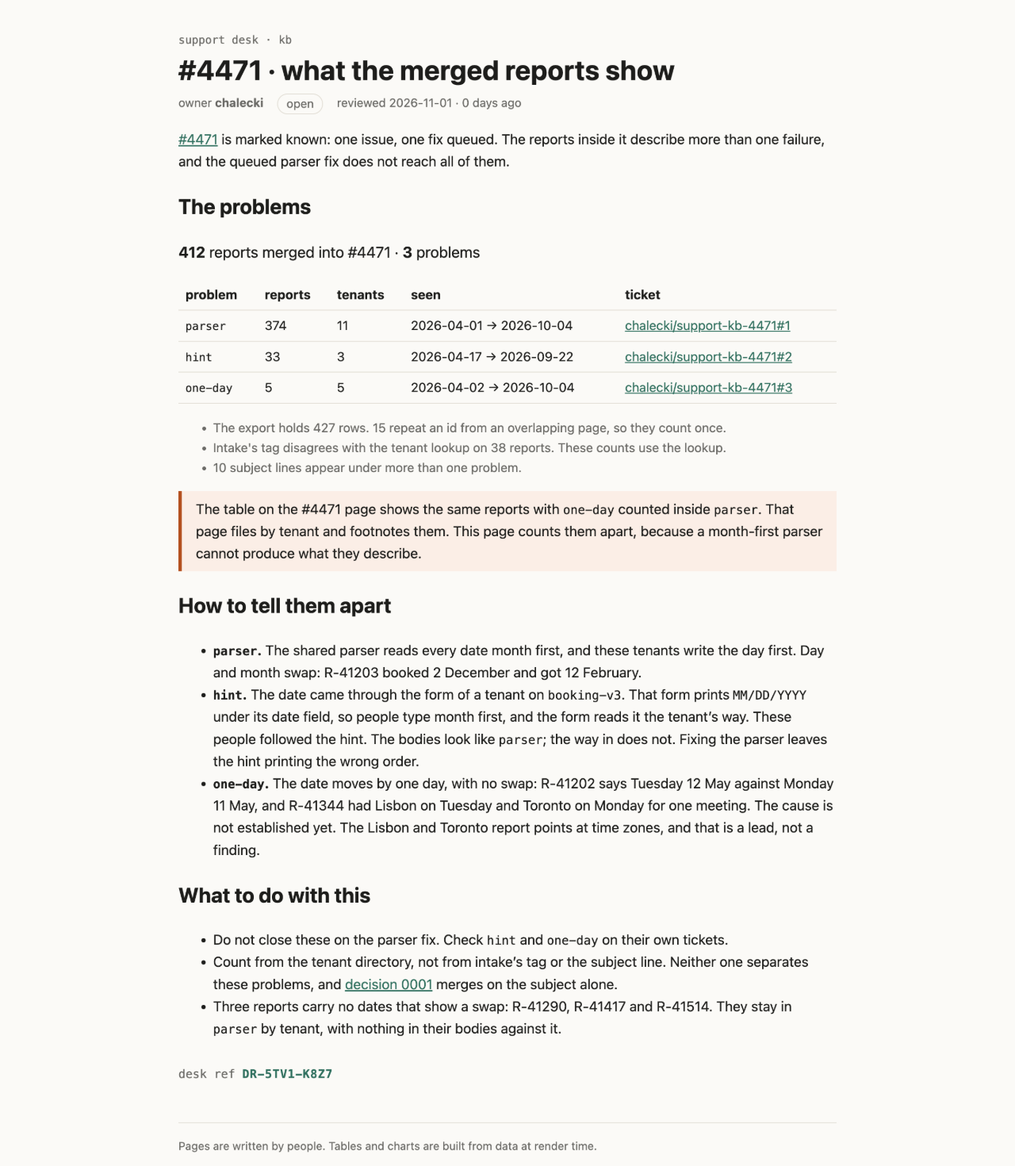
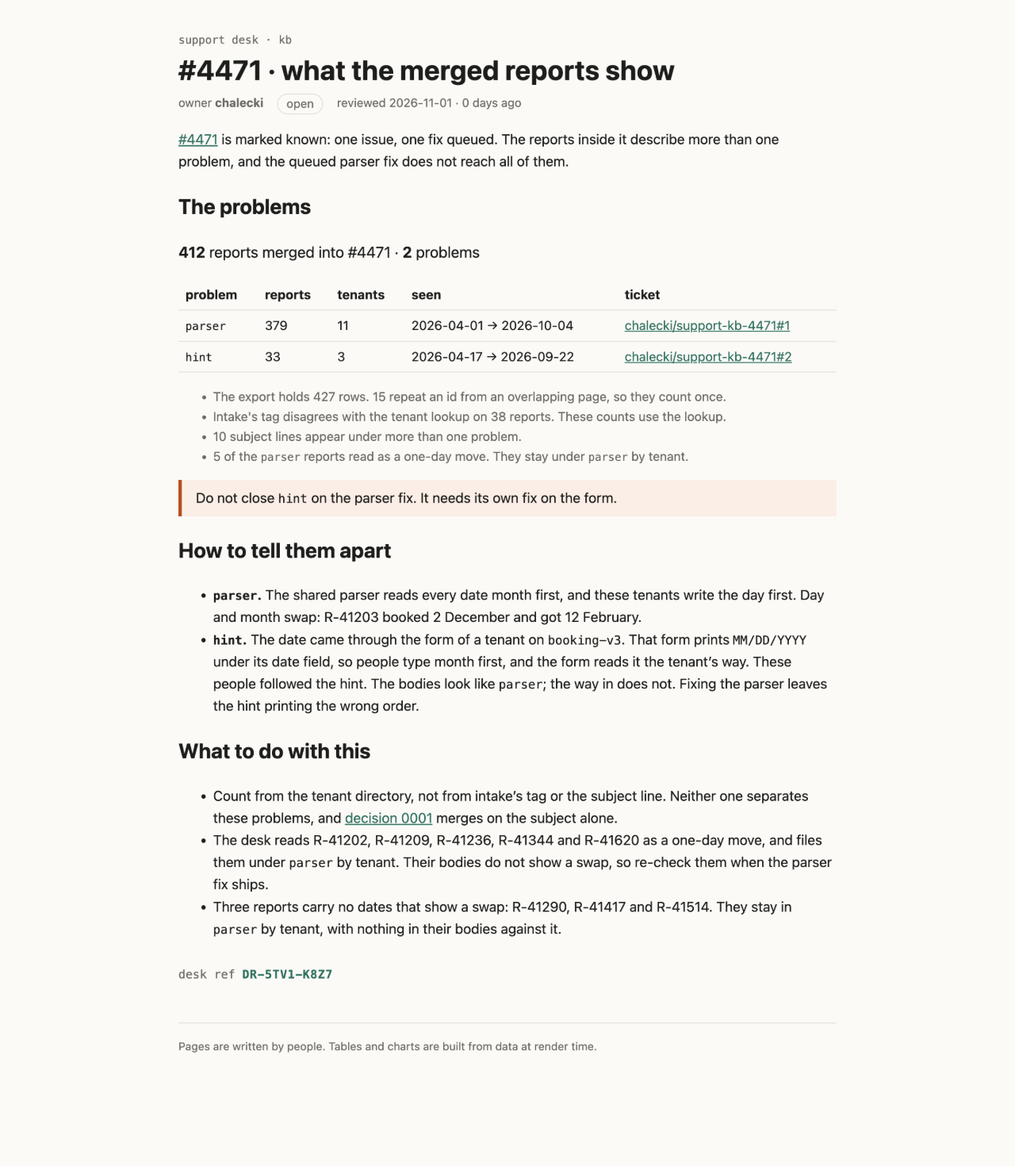
Count the one-day reports under parser: two problems, not three

Changed region(s): [[0.1562, 0.2449, 0.8125, 0.949], [0.1875, 0.9796, 0.5938, 1.0], [0.1875, 0.1224, 0.5625, 0.1531]]

diff --git a/rendered/kb/incidents/4471/problems.html b/rendered/kb/incidents/4471/problems.html
@@ -9,11 +9,11 @@
 		<link href="../../../_app/immutable/chunks/CptVIHXj.js" rel="modulepreload">
 		<link href="../../../_app/immutable/chunks/CHfFqfNT.js" rel="modulepreload">
 		<link href="../../../_app/immutable/chunks/DQG8lHS1.js" rel="modulepreload">
-		<link href="../../../_app/immutable/entry/app.Dvk5GVQ2.js" rel="modulepreload">
+		<link href="../../../_app/immutable/entry/app.BJvDcaJe.js" rel="modulepreload">
 		<link href="../../../_app/immutable/nodes/0.Izv2btRW.js" rel="modulepreload">
 		<link href="../../../_app/immutable/chunks/DK3Fl9T5.js" rel="modulepreload">
-		<link href="../../../_app/immutable/nodes/5.DJePRn56.js" rel="modulepreload">
-		<link href="../../../_app/immutable/chunks/l91peE1a.js" rel="modulepreload">
+		<link href="../../../_app/immutable/nodes/5.CDfSAvXp.js" rel="modulepreload">
+		<link href="../../../_app/immutable/chunks/BiRMwpH6.js" rel="modulepreload">
 		<link href="../../../_app/immutable/chunks/DkoUumqI.js" rel="modulepreload">
 		<link href="../../../_app/immutable/chunks/CVBzP17p.js" rel="modulepreload">
 		<link href="../../../_app/immutable/chunks/DcZ9TEUN.js" rel="modulepreload">
@@ -24,28 +24,25 @@
   </head>
   <body>
     <div><!--[--><!--[--><!--[0--><!--[--><!--[--><!--[-1--><!--[--><div class="kb svelte-e2jw2j"><header><a class="crumb svelte-e2jw2j" href="/kb">support desk · kb</a> <h1 class="svelte-e2jw2j">#4471 · what the merged reports show</h1> <p class="meta svelte-e2jw2j"><span>owner <b>chalecki</b></span> <span class="status open svelte-e2jw2j">open</span> <span class="svelte-e2jw2j">reviewed 2026-11-01 · 0 days ago</span></p></header> <!--[-1--><!--]--> <main><p><a href="/kb/incidents/4471">#4471</a> is marked known: one issue, one fix queued. The reports inside it
-describe more than one failure, and the queued parser fix does not reach all of them.</p> <h2>The problems</h2> <p class="sum svelte-1op6c6"><strong>412</strong> reports merged into #4471 · <strong>3</strong> problems</p> <table><thead><tr><th>problem</th><th>reports</th><th>tenants</th><th>seen</th><th>ticket</th></tr></thead><tbody><!--[--><tr><td><code>parser</code></td><td>374</td><td>11</td><td>2026-04-01 → 2026-10-04</td><td><!--[0--><a href="https://github.com/chalecki/support-kb-4471/issues/1">chalecki/support-kb-4471#1</a><!--]--></td></tr><tr><td><code>hint</code></td><td>33</td><td>3</td><td>2026-04-17 → 2026-09-22</td><td><!--[0--><a href="https://github.com/chalecki/support-kb-4471/issues/2">chalecki/support-kb-4471#2</a><!--]--></td></tr><tr><td><code>one-day</code></td><td>5</td><td>5</td><td>2026-04-02 → 2026-10-04</td><td><!--[0--><a href="https://github.com/chalecki/support-kb-4471/issues/3">chalecki/support-kb-4471#3</a><!--]--></td></tr><!--]--></tbody></table> <ul class="checks svelte-1op6c6"><li>The export holds 427 rows. 15 repeat an id from an overlapping page, so they count once.</li> <li>Intake's tag disagrees with the tenant lookup on 38 reports. These counts use the lookup.</li> <li>10 subject lines appear under more than one problem.</li></ul><!----> <aside class="warn svelte-17bri61"><!---->The table on the #4471 page shows the same reports with <code>one-day</code> counted inside <code>parser</code>. That page files by tenant and footnotes them. This page counts them apart,
-because a month-first parser cannot produce what they describe.<!----></aside><!----> <h2>How to tell them apart</h2> <ul><li><strong><code>parser</code>.</strong> The shared parser reads every date month first, and these tenants write the day
+describe more than one problem, and the queued parser fix does not reach all of them.</p> <h2>The problems</h2> <p class="sum svelte-1op6c6"><strong>412</strong> reports merged into #4471 · <strong>2</strong> problems</p> <table><thead><tr><th>problem</th><th>reports</th><th>tenants</th><th>seen</th><th>ticket</th></tr></thead><tbody><!--[--><tr><td><code>parser</code></td><td>379</td><td>11</td><td>2026-04-01 → 2026-10-04</td><td><!--[0--><a href="https://github.com/chalecki/support-kb-4471/issues/1">chalecki/support-kb-4471#1</a><!--]--></td></tr><tr><td><code>hint</code></td><td>33</td><td>3</td><td>2026-04-17 → 2026-09-22</td><td><!--[0--><a href="https://github.com/chalecki/support-kb-4471/issues/2">chalecki/support-kb-4471#2</a><!--]--></td></tr><!--]--></tbody></table> <ul class="checks svelte-1op6c6"><li>The export holds 427 rows. 15 repeat an id from an overlapping page, so they count once.</li> <li>Intake's tag disagrees with the tenant lookup on 38 reports. These counts use the lookup.</li> <li>10 subject lines appear under more than one problem.</li> <!--[--><!--[0--><li>5 of the <code>parser</code> reports read as a one-day move. They stay under <code>parser</code> by tenant.</li><!--]--><!--[-1--><!--]--><!--]--></ul><!----> <aside class="warn svelte-17bri61"><!---->Do not close <code>hint</code> on the parser fix. It needs its own fix on the form.<!----></aside><!----> <h2>How to tell them apart</h2> <ul><li><strong><code>parser</code>.</strong> The shared parser reads every date month first, and these tenants write the day
 first. Day and month swap: R-41203 booked 2 December and got 12 February.</li> <li><strong><code>hint</code>.</strong> The date came through the form of a tenant on <code>booking-v3</code>. That form prints <code>MM/DD/YYYY</code> under its date field, so people type month first, and the form reads it the
 tenant’s way. These people followed the hint. The bodies look like <code>parser</code>; the way in does not.
-Fixing the parser leaves the hint printing the wrong order.</li> <li><strong><code>one-day</code>.</strong> The date moves by one day, with no swap: R-41202 says Tuesday 12 May against
-Monday 11 May, and R-41344 had Lisbon on Tuesday and Toronto on Monday for one meeting. The cause
-is not established yet. The Lisbon and Toronto report points at time zones, and that is a lead,
-not a finding.</li></ul> <h2>What to do with this</h2> <ul><li>Do not close these on the parser fix. Check <code>hint</code> and <code>one-day</code> on their own tickets.</li> <li>Count from the tenant directory, not from intake’s tag or the subject line. Neither one separates
-these problems, and <a href="/kb/decisions/0001-dedupe-by-subject">decision 0001</a> merges on the subject alone.</li> <li>Three reports carry no dates that show a swap: R-41290, R-41417 and R-41514. They stay in <code>parser</code> by tenant, with nothing in their bodies against it.</li></ul> <!--[0--><p class="stamp svelte-1280m42">desk ref <b class="svelte-1280m42">DR-5TV1-K8Z7</b></p><!--]--><!----><!----></main> <footer class="svelte-e2jw2j">Pages are written by people. Tables and charts are built from data at render time.</footer></div><!--]--><!--]--><!--]--><!----><!--]--><!--]--><!--]--><!----> <!--[-1--><!--]--><!--]-->
+Fixing the parser leaves the hint printing the wrong order.</li></ul> <h2>What to do with this</h2> <ul><li>Count from the tenant directory, not from intake’s tag or the subject line. Neither one separates
+these problems, and <a href="/kb/decisions/0001-dedupe-by-subject">decision 0001</a> merges on the subject alone.</li> <li>The desk reads R-41202, R-41209, R-41236, R-41344 and R-41620 as a one-day move, and files them
+under <code>parser</code> by tenant. Their bodies do not show a swap, so re-check them when the parser fix ships.</li> <li>Three reports carry no dates that show a swap: R-41290, R-41417 and R-41514. They stay in <code>parser</code> by tenant, with nothing in their bodies against it.</li></ul> <!--[0--><p class="stamp svelte-1280m42">desk ref <b class="svelte-1280m42">DR-5TV1-K8Z7</b></p><!--]--><!----><!----></main> <footer class="svelte-e2jw2j">Pages are written by people. Tables and charts are built from data at render time.</footer></div><!--]--><!--]--><!--]--><!----><!--]--><!--]--><!--]--><!----> <!--[-1--><!--]--><!--]-->
 			
 			<script>
 				{
-					__sveltekit_7pxg2d = {
+					__sveltekit_1y1p9j0 = {
 						base: new URL("../../..", location).pathname.slice(0, -1),
-						version: "1793546077218"
+						version: "1793546150622"
 					};
 
 					const element = document.currentScript.parentElement;
 
 					import("../../../_app/immutable/entry/start.D1HzdfF7.js").then(async (kit) => {
-						kit.init(__sveltekit_7pxg2d);
-						const app = await import("../../../_app/immutable/entry/app.Dvk5GVQ2.js");
+						kit.init(__sveltekit_1y1p9j0);
+						const app = await import("../../../_app/immutable/entry/app.BJvDcaJe.js");
 						kit.start(app, element, {
 							node_ids: [0, 5],
 							data: [null,null],

diff --git a/rendered/_app/immutable/chunks/BiRMwpH6.js b/rendered/_app/immutable/chunks/BiRMwpH6.js
@@ -1,0 +1,7 @@
+import{t as e}from"./DK3Fl9T5.js";import{E as t,F as n,H as r,I as i,K as a,L as o,N as s,O as c,R as l,S as u,T as d,U as f,W as p,_ as m,c as h,h as g,k as _,q as v,r as y,t as b,w as x}from"./CHfFqfNT.js";import{t as S}from"./DkoUumqI.js";import{n as C,t as w}from"./CVBzP17p.js";import{a as T,l as E,o as D,r as O,t as k}from"./DcZ9TEUN.js";function A(e,t){return E(e).filter(e=>e.mergedInto===t)}function j(e){return e.reduce((e,t)=>e+t.reports.filter(e=>e.meta.intakeTag!==t.cause).length,0)}function M(e){let t=new Map;for(let n of e)for(let e of n.reports)t.set(e.subject,(t.get(e.subject)??new Set).add(n.cause));return[...t.values()].filter(e=>e.size>1).length}var N=t(`<a> </a>`),P=t(`<tr><td><code> </code></td><td> </td><td> </td><td> </td><td><!></td></tr>`),F=t(`<li> <code> </code> reports read as a one-day move. They stay under <code> </code> by tenant.</li>`),I=t(`<p class="sum svelte-1op6c6"><strong> </strong> <strong> </strong> </p> <table><thead><tr><th>problem</th><th>reports</th><th>tenants</th><th>seen</th><th>ticket</th></tr></thead><tbody></tbody></table> <ul class="checks svelte-1op6c6"><li> </li> <li> </li> <li> </li> <!></ul>`,1);function L(e,t){p(t,!0);let y=r(()=>C),b=r(()=>A(_(y),t.ticket)),S=r(()=>T(_(b),O)),E=e=>t.tickets[e];var k=I(),L=i(k),R=n(L),z=o(R,!0),B=l(R),V=l(B),H=o(V,!0),U=l(V);v(L);var W=l(L,2),G=l(n(W));g(G,21,()=>_(S),e=>e.cause,(e,i)=>{var a=P(),d=n(a),f=n(d),p=o(f,!0);v(d);var g=l(d),y=o(g,!0),b=l(g),S=o(b,!0),C=l(b),w=o(C),T=l(C),D=n(T),O=e=>{var n=N(),r=o(n);s((e,i)=>{h(n,`href`,`https://github.com/${t.repo??``}/issues/${e??``}`),u(r,`${t.repo??``}#${i??``}`)},[()=>E(_(i).cause),()=>E(_(i).cause)]),x(e,n)},k=r(()=>E(_(i).cause)),A=e=>{var t=c(`none`);x(e,t)};m(D,e=>{_(k)?e(O):e(A,-1)}),v(T),v(a),s(()=>{u(p,_(i).cause),u(y,_(i).reports.length),u(S,_(i).tenants),u(w,`${_(i).firstSeen??``} → ${_(i).lastSeen??``}`)}),x(e,a)}),v(G),v(W);var K=l(W,2),q=n(K),J=o(q),Y=l(q,2),ee=o(Y),X=l(Y,2),Z=o(X),Q=l(X,2);g(Q,17,()=>_(S),e=>e.cause,(e,t)=>{var c=d(),f=i(c),p=e=>{var r=F(),i=n(r),c=l(i),d=o(c,!0),f=l(c,2),p=o(f,!0);a(),v(r),s(e=>{u(i,`${e??``} of the `),u(d,_(t).cause),u(p,_(t).cause)},[()=>D(_(t),w.oneDayMove)]),x(e,r)},h=r(()=>D(_(t),w.oneDayMove));m(f,e=>{_(h)&&e(p)}),x(e,c)}),v(K),s((e,n)=>{u(z,_(b).length),u(B,` reports merged into #${t.ticket??``} · `),u(H,_(S).length),u(U,` ${_(S).length===1?`problem`:`problems`}`),u(J,`The export holds ${_(y).length??``} rows. ${_(y).length-_(b).length} repeat an id from an overlapping page, so they count once.`),u(ee,`Intake's tag disagrees with the tenant lookup on ${e??``} reports. These counts use the lookup.`),u(Z,`${n??``} subject lines appear under more than one problem.`)},[()=>j(_(S)),()=>M(_(S))]),x(e,k),f()}var R=`0123456789ABCDEFGHJKMNPQRSTVWXYZ`;function z(e,t){let n=t>>>0;for(let t=0;t<e.length;t++)n^=e.charCodeAt(t),n=Math.imul(n,16777619)>>>0;return n}function B(e){let t=e.trim(),n=z(t,2166136261),r=z(t,2654435769),i=BigInt(n)<<8n|BigInt(r&255),a=``;for(let e=0;e<8;e++)a=R[Number(i&31n)]+a,i>>=5n;return`DR-${a.slice(0,4)}-${a.slice(4)}`}var V=t(`<p class="stamp svelte-1280m42">desk ref <b class="svelte-1280m42"> </b></p>`),H=t(`<p class="stamp missing svelte-1280m42">no desk ref: this page isn't signed (no <code>signature</code> in its frontmatter)</p>`);function U(e,t){p(t,!0);let a=r(()=>t.signature?B(t.signature):null);var c=d(),h=i(c),g=e=>{var t=V(),r=l(n(t)),i=o(r,!0);v(t),s(()=>u(i,_(a))),x(e,t)},y=e=>{var t=H();x(e,t)};m(h,e=>{_(a)?e(g):e(y,-1)}),x(e,c),f()}var W=e({default:()=>$,metadata:()=>G}),G={layout:`runbook`,title:`#4471 · what the merged reports show`,owner:`chalecki`,status:`open`,reviewed:`2026-11-01T00:00:00.000Z`,signature:`chalecki`},{layout:K,title:q,owner:J,status:Y,reviewed:ee,signature:X}=G,Z=t(`Do not close <code>hint</code> on the parser fix. It needs its own fix on the form.`,1),Q=t(`<p><a href="/kb/incidents/4471">#4471</a> is marked known: one issue, one fix queued. The reports inside it
+describe more than one problem, and the queued parser fix does not reach all of them.</p> <h2>The problems</h2> <!> <!> <h2>How to tell them apart</h2> <ul><li><strong><code>parser</code>.</strong> The shared parser reads every date month first, and these tenants write the day
+first. Day and month swap: R-41203 booked 2 December and got 12 February.</li> <li><strong><code>hint</code>.</strong> The date came through the form of a tenant on <code>booking-v3</code>. That form prints <code>MM/DD/YYYY</code> under its date field, so people type month first, and the form reads it the
+tenant’s way. These people followed the hint. The bodies look like <code>parser</code>; the way in does not.
+Fixing the parser leaves the hint printing the wrong order.</li></ul> <h2>What to do with this</h2> <ul><li>Count from the tenant directory, not from intake’s tag or the subject line. Neither one separates
+these problems, and <a href="/kb/decisions/0001-dedupe-by-subject">decision 0001</a> merges on the subject alone.</li> <li>The desk reads R-41202, R-41209, R-41236, R-41344 and R-41620 as a one-day move, and files them
+under <code>parser</code> by tenant. Their bodies do not show a swap, so re-check them when the parser fix ships.</li> <li>Three reports carry no dates that show a swap: R-41290, R-41417 and R-41514. They stay in <code>parser</code> by tenant, with nothing in their bodies against it.</li></ul> <!>`,1);function $(e,t){let n=b(t,[`children`,`$$slots`,`$$events`,`$$legacy`]);S(e,y(()=>n,()=>G,{children:(e,t)=>{var n=Q(),r=l(i(n),4);L(r,{ticket:4471,repo:`chalecki/support-kb-4471`,tickets:{parser:1,hint:2}});var o=l(r,2);k(o,{kind:`warn`,children:(e,t)=>{a();var n=Z();a(2),x(e,n)},$$slots:{default:!0}}),U(l(o,10),{get signature(){return X}}),x(e,n)},$$slots:{default:!0}}))}export{$ as n,W as t};

diff --git a/src/lib/kb/ProblemTable.svelte b/src/lib/kb/ProblemTable.svelte
@@ -1,20 +1,20 @@
 <script lang="ts">
   import reports from '#lib/data/reports-4471.json';
   import notes from '#lib/data/desk-notes.json';
-  import type { Report } from '#lib/kb/causes';
+  import { groupByCause, readAs, type Cause, type Report } from '#lib/kb/causes';
   import { tenantOf } from '#lib/kb/locales';
-  import { groupByProblem, mergedInto, sharedSubjects, taggedWrong, type Problem } from '#lib/kb/problems';
+  import { mergedInto, sharedSubjects, taggedWrong } from '#lib/kb/problems';
 
-  let { ticket, repo, tickets }: { ticket: number; repo: string; tickets: Partial<Record<Problem, number>> } = $props();
+  let { ticket, repo, tickets }: { ticket: number; repo: string; tickets: Partial<Record<Cause, number>> } = $props();
 
   const raw = $derived(reports as Report[]);
   const merged = $derived(mergedInto(raw, ticket));
-  const groups = $derived(groupByProblem(merged, tenantOf, notes.oneDayMove));
-  const total = $derived(groups.reduce((n, g) => n + g.reports.length, 0));
+  const groups = $derived(groupByCause(merged, tenantOf));
+  const link = (cause: string) => tickets[cause as Cause];
 </script>
 
 <p class="sum">
-  <strong>{total}</strong> reports merged into #{ticket} ·
+  <strong>{merged.length}</strong> reports merged into #{ticket} ·
   <strong>{groups.length}</strong>
   {groups.length === 1 ? 'problem' : 'problems'}
 </p>
@@ -24,15 +24,15 @@
     <tr><th>problem</th><th>reports</th><th>tenants</th><th>seen</th><th>ticket</th></tr>
   </thead>
   <tbody>
-    {#each groups as g (g.problem)}
+    {#each groups as g (g.cause)}
       <tr>
-        <td><code>{g.problem}</code></td>
+        <td><code>{g.cause}</code></td>
         <td>{g.reports.length}</td>
         <td>{g.tenants}</td>
         <td>{g.firstSeen} → {g.lastSeen}</td>
         <td>
-          {#if tickets[g.problem]}
-            <a href="https://github.com/{repo}/issues/{tickets[g.problem]}">{repo}#{tickets[g.problem]}</a>
+          {#if link(g.cause)}
+            <a href="https://github.com/{repo}/issues/{link(g.cause)}">{repo}#{link(g.cause)}</a>
           {:else}
             none
           {/if}
@@ -46,6 +46,11 @@
   <li>The export holds {raw.length} rows. {raw.length - merged.length} repeat an id from an overlapping page, so they count once.</li>
   <li>Intake's tag disagrees with the tenant lookup on {taggedWrong(groups)} reports. These counts use the lookup.</li>
   <li>{sharedSubjects(groups)} subject lines appear under more than one problem.</li>
+  {#each groups as g (g.cause)}
+    {#if readAs(g, notes.oneDayMove)}
+      <li>{readAs(g, notes.oneDayMove)} of the <code>{g.cause}</code> reports read as a one-day move. They stay under <code>{g.cause}</code> by tenant.</li>
+    {/if}
+  {/each}
 </ul>
 
 <style>

diff --git a/src/lib/kb/problems.ts b/src/lib/kb/problems.ts
@@ -1,40 +1,20 @@
-// What the reports in a ticket say went wrong, on top of where causes.ts files them.
-// causeOf() looks only at tenant and channel, so a report whose body describes a different failure
-// still lands in `parser`. desk-notes.json names those reports: they get their own problem here.
-import { groupByCause, uniqueById, type CauseGroup, type Report, type Tenant } from '#lib/kb/causes';
-
-export type Problem = 'parser' | 'hint' | 'one-day' | 'unplaced';
-
-export type ProblemGroup = Omit<CauseGroup, 'cause'> & { problem: Problem };
+// Checks on the groups causes.ts makes for a ticket.
+import { uniqueById, type CauseGroup, type Report } from '#lib/kb/causes';
 
 export function mergedInto(reports: Report[], ticket: number): Report[] {
   return uniqueById(reports).filter((r) => r.mergedInto === ticket);
 }
 
-export function groupByProblem(
-  reports: Report[],
-  tenantOf: (r: Report) => Tenant | undefined,
-  oneDayMove: readonly string[],
-): ProblemGroup[] {
-  const moved = reports.filter((r) => oneDayMove.includes(r.id));
-  const rest = reports.filter((r) => !oneDayMove.includes(r.id));
-  const rows = groupByCause(rest, tenantOf).map(({ cause, ...g }) => ({ ...g, problem: cause as Problem }));
-  const [one] = groupByCause(moved, tenantOf);
-  return one ? [...rows, { ...one, problem: 'one-day' as const }] : rows;
+// Reports that sit in one cause while intake tagged them as another.
+export function taggedWrong(groups: CauseGroup[]): number {
+  return groups.reduce((n, g) => n + g.reports.filter((r) => r.meta.intakeTag !== g.cause).length, 0);
 }
 
-// Reports that sit in one problem while intake tagged them as another.
-export function taggedWrong(groups: ProblemGroup[]): number {
-  return groups
-    .filter((g) => g.problem !== 'one-day')
-    .reduce((n, g) => n + g.reports.filter((r) => r.meta.intakeTag !== g.problem).length, 0);
-}
-
-// Subject lines that appear in more than one problem: the rule in decision 0001 cannot split them.
-export function sharedSubjects(groups: ProblemGroup[]): number {
-  const seen = new Map<string, Set<Problem>>();
+// Subject lines that appear under more than one cause: the rule in decision 0001 cannot split them.
+export function sharedSubjects(groups: CauseGroup[]): number {
+  const seen = new Map<string, Set<CauseGroup['cause']>>();
   for (const g of groups) {
-    for (const r of g.reports) seen.set(r.subject, (seen.get(r.subject) ?? new Set()).add(g.problem));
+    for (const r of g.reports) seen.set(r.subject, (seen.get(r.subject) ?? new Set()).add(g.cause));
   }
   return [...seen.values()].filter((s) => s.size > 1).length;
 }

diff --git a/rendered/_app/immutable/nodes/2.DDEqsNXp.js b/rendered/_app/immutable/nodes/2.DDEqsNXp.js
@@ -1,0 +1,2 @@
+import{E as e,F as t,I as n,K as r,L as i,N as a,R as o,S as s,U as c,W as l,c as u,d,h as f,i as p,k as m,q as h,r as g,t as _,w as v}from"../chunks/CHfFqfNT.js";import{n as y,r as b,t as x}from"../chunks/DkoUumqI.js";import{t as S}from"../chunks/DCOWSXCS.js";import{t as C}from"../chunks/BHCznJ8a.js";import{t as w}from"../chunks/BiRMwpH6.js";import{t as T}from"../chunks/Ce0JHbCm.js";var E=e(`<tr><td><a> </a></td><td> </td><td> </td><td> </td></tr>`),D=e(`<table><thead><tr><th>page</th><th>owner</th><th>status</th><th>reviewed</th></tr></thead><tbody></tbody></table>`);function O(e,n){l(n,!1);let r=Object.entries(Object.assign({"/src/routes/kb/decisions/0001-dedupe-by-subject/+page.svx":S,"/src/routes/kb/incidents/4471/+page.svx":C,"/src/routes/kb/incidents/4471/problems/+page.svx":w,"/src/routes/kb/triage/dedupe/+page.svx":T})).map(([e,t])=>({href:e.replace(`/src/routes`,``).replace(`/+page.svx`,``),...t.metadata})).sort((e,t)=>e.href.localeCompare(t.href));p();var g=D(),_=o(t(g));f(_,5,()=>r,e=>e.href,(e,n)=>{var r=E(),c=t(r),l=t(c),f=i(l,!0);h(c);var p=o(c),g=i(p,!0),_=o(p),x=i(_,!0),S=o(_);let C;var w=i(S,!0);h(r),a((e,t)=>{u(l,`href`,m(n).href),s(f,m(n).title),s(g,m(n).owner),s(x,m(n).status),C=d(S,1,`svelte-tbc1ha`,null,C,{stale:e}),s(w,t)},[()=>y(m(n).reviewed)>180,()=>b(m(n).reviewed)]),v(e,r)}),h(_),h(g),v(e,g),c()}var k={layout:`runbook`,title:`Support knowledge base`,owner:`support desk`,status:`living`,reviewed:`2026-09-28T00:00:00.000Z`},{layout:A,title:j,owner:M,status:N,reviewed:P}=k,F=e(`<p>What the support desk knows, kept next to the code that knows it. One desk, every product: <code>sched-prod</code> (calendar invites for about 300k people) and the rest. When something breaks, the reports land here first.</p> <p>Start with <a href="/kb/triage/dedupe">triage</a> if you are new on the desk.</p> <h2>Pages</h2> <!> <h2>Writing a page</h2> <p>Keep the words here and the logic in <code>src/lib</code>. A number that can be computed should be
+computed by a component, not typed into a paragraph.</p>`,1);function I(e,t){let i=_(t,[`children`,`$$slots`,`$$events`,`$$legacy`]);x(e,g(()=>i,()=>k,{children:(e,t)=>{var i=F();O(o(n(i),6),{}),r(4),v(e,i)},$$slots:{default:!0}}))}export{I as component};

diff --git a/rendered/kb.html b/rendered/kb.html
@@ -9,16 +9,16 @@
 		<link href="./_app/immutable/chunks/CptVIHXj.js" rel="modulepreload">
 		<link href="./_app/immutable/chunks/CHfFqfNT.js" rel="modulepreload">
 		<link href="./_app/immutable/chunks/DQG8lHS1.js" rel="modulepreload">
-		<link href="./_app/immutable/entry/app.Dvk5GVQ2.js" rel="modulepreload">
+		<link href="./_app/immutable/entry/app.BJvDcaJe.js" rel="modulepreload">
 		<link href="./_app/immutable/nodes/0.Izv2btRW.js" rel="modulepreload">
 		<link href="./_app/immutable/chunks/DK3Fl9T5.js" rel="modulepreload">
-		<link href="./_app/immutable/nodes/2.Bttkxv3N.js" rel="modulepreload">
+		<link href="./_app/immutable/nodes/2.DDEqsNXp.js" rel="modulepreload">
 		<link href="./_app/immutable/chunks/DkoUumqI.js" rel="modulepreload">
 		<link href="./_app/immutable/chunks/DCOWSXCS.js" rel="modulepreload">
 		<link href="./_app/immutable/chunks/BHCznJ8a.js" rel="modulepreload">
 		<link href="./_app/immutable/chunks/CVBzP17p.js" rel="modulepreload">
 		<link href="./_app/immutable/chunks/DcZ9TEUN.js" rel="modulepreload">
-		<link href="./_app/immutable/chunks/l91peE1a.js" rel="modulepreload">
+		<link href="./_app/immutable/chunks/BiRMwpH6.js" rel="modulepreload">
 		<link href="./_app/immutable/chunks/Ce0JHbCm.js" rel="modulepreload">
 		<!--e2jw2j--><!----><title>Support knowledge base · support kb</title>
 		<link href="./_app/immutable/assets/runbook.COyw0cbZ.css" rel="stylesheet">
@@ -34,16 +34,16 @@ computed by a component, not typed into a paragraph.</p><!----></main> <footer c
 			
 			<script>
 				{
-					__sveltekit_7pxg2d = {
+					__sveltekit_1y1p9j0 = {
 						base: new URL(".", location).pathname.slice(0, -1),
-						version: "1793546077218"
+						version: "1793546150622"
 					};
 
 					const element = document.currentScript.parentElement;
 
 					import("./_app/immutable/entry/start.D1HzdfF7.js").then(async (kit) => {
-						kit.init(__sveltekit_7pxg2d);
-						const app = await import("./_app/immutable/entry/app.Dvk5GVQ2.js");
+						kit.init(__sveltekit_1y1p9j0);
+						const app = await import("./_app/immutable/entry/app.BJvDcaJe.js");
 						kit.start(app, element, {
 							node_ids: [0, 2],
 							data: [null,null],

diff --git a/rendered/_app/immutable/entry/app.BJvDcaJe.js b/rendered/_app/immutable/entry/app.BJvDcaJe.js
@@ -1,0 +1,2 @@
+const __vite__mapDeps=(i,m=__vite__mapDeps,d=(m.f||(m.f=["../nodes/0.Izv2btRW.js","../chunks/DK3Fl9T5.js","../chunks/CHfFqfNT.js","../nodes/1.xQrPtl8H.js","../chunks/DQG8lHS1.js","./payload.DSmR2FwN.js","../nodes/2.DDEqsNXp.js","../chunks/DkoUumqI.js","../assets/runbook.COyw0cbZ.css","../chunks/DCOWSXCS.js","../chunks/BHCznJ8a.js","../chunks/CVBzP17p.js","../chunks/DcZ9TEUN.js","../assets/Callout.AbLv9dM_.css","../assets/_page.D56XP2ro.css","../chunks/BiRMwpH6.js","../assets/_page.DFsi4BNB.css","../chunks/Ce0JHbCm.js","../assets/_page.DO6Yid7X.css","../assets/2.Bt0MwIZg.css","../nodes/3.utlB90Ku.js","../nodes/4.ot8lEXqF.js","../nodes/5.CDfSAvXp.js","../nodes/6.BZRQ87Zk.js"])))=>i.map(i=>d[i]);
+import{t as e}from"../chunks/CRzLMJPS.js";var t={},n=[()=>e(()=>import(`../nodes/0.Izv2btRW.js`),__vite__mapDeps([0,1,2]),import.meta.url),()=>e(()=>import(`../nodes/1.xQrPtl8H.js`),__vite__mapDeps([3,2,4,5]),import.meta.url),()=>e(()=>import(`../nodes/2.DDEqsNXp.js`),__vite__mapDeps([6,2,7,8,9,1,10,11,12,13,14,15,16,17,18,19]),import.meta.url),()=>e(()=>import(`../nodes/3.utlB90Ku.js`),__vite__mapDeps([20,9,1,2,7,8]),import.meta.url),()=>e(()=>import(`../nodes/4.ot8lEXqF.js`),__vite__mapDeps([21,10,1,2,7,8,11,12,13,14]),import.meta.url),()=>e(()=>import(`../nodes/5.CDfSAvXp.js`),__vite__mapDeps([22,15,1,2,7,8,11,12,13,16]),import.meta.url),()=>e(()=>import(`../nodes/6.BZRQ87Zk.js`),__vite__mapDeps([23,17,1,2,7,8,12,13,18]),import.meta.url)],r=[],i={"/kb":[2],"/kb/decisions/0001-dedupe-by-subject":[3],"/kb/incidents/4471":[4],"/kb/incidents/4471/problems":[5],"/kb/triage/dedupe":[6]},a={handleError:(({kind:e,error:t})=>{e===`unknown`&&console.error(t)}),reroute:(()=>{}),transport:{}},o=Object.fromEntries(Object.entries(a.transport).map(([e,t])=>[e,t.decode])),s=Object.fromEntries(Object.entries(a.transport).map(([e,t])=>[e,t.encode])),c=!1,l=(e,t)=>o[e](t),u=()=>e(()=>import(`../chunks/Bjy-W4x2.js`).then(e=>e.default),[],import.meta.url);export{l as decode,o as decoders,i as dictionary,s as encoders,u as get_error_template,c as hash,a as hooks,t as matchers,n as nodes,r as server_loads};

diff --git a/rendered/kb/decisions/0001-dedupe-by-subject.html b/rendered/kb/decisions/0001-dedupe-by-subject.html
@@ -9,7 +9,7 @@
 		<link href="../../_app/immutable/chunks/CptVIHXj.js" rel="modulepreload">
 		<link href="../../_app/immutable/chunks/CHfFqfNT.js" rel="modulepreload">
 		<link href="../../_app/immutable/chunks/DQG8lHS1.js" rel="modulepreload">
-		<link href="../../_app/immutable/entry/app.Dvk5GVQ2.js" rel="modulepreload">
+		<link href="../../_app/immutable/entry/app.BJvDcaJe.js" rel="modulepreload">
 		<link href="../../_app/immutable/nodes/0.Izv2btRW.js" rel="modulepreload">
 		<link href="../../_app/immutable/chunks/DK3Fl9T5.js" rel="modulepreload">
 		<link href="../../_app/immutable/nodes/3.utlB90Ku.js" rel="modulepreload">
@@ -26,16 +26,16 @@ engineering merges them later.</li></ul><!----></main> <footer class="svelte-e2j
 			
 			<script>
 				{
-					__sveltekit_7pxg2d = {
+					__sveltekit_1y1p9j0 = {
 						base: new URL("../..", location).pathname.slice(0, -1),
-						version: "1793546077218"
+						version: "1793546150622"
 					};
 
 					const element = document.currentScript.parentElement;
 
 					import("../../_app/immutable/entry/start.D1HzdfF7.js").then(async (kit) => {
-						kit.init(__sveltekit_7pxg2d);
-						const app = await import("../../_app/immutable/entry/app.Dvk5GVQ2.js");
+						kit.init(__sveltekit_1y1p9j0);
+						const app = await import("../../_app/immutable/entry/app.BJvDcaJe.js");
 						kit.start(app, element, {
 							node_ids: [0, 3],
 							data: [null,null],

diff --git a/rendered/kb/incidents/4471.html b/rendered/kb/incidents/4471.html
@@ -9,7 +9,7 @@
 		<link href="../../_app/immutable/chunks/CptVIHXj.js" rel="modulepreload">
 		<link href="../../_app/immutable/chunks/CHfFqfNT.js" rel="modulepreload">
 		<link href="../../_app/immutable/chunks/DQG8lHS1.js" rel="modulepreload">
-		<link href="../../_app/immutable/entry/app.Dvk5GVQ2.js" rel="modulepreload">
+		<link href="../../_app/immutable/entry/app.BJvDcaJe.js" rel="modulepreload">
 		<link href="../../_app/immutable/nodes/0.Izv2btRW.js" rel="modulepreload">
 		<link href="../../_app/immutable/chunks/DK3Fl9T5.js" rel="modulepreload">
 		<link href="../../_app/immutable/nodes/4.ot8lEXqF.js" rel="modulepreload">
@@ -29,16 +29,16 @@ first. The fix is queued.</p> <aside class="note svelte-17bri61"><!---->Known. O
 			
 			<script>
 				{
-					__sveltekit_7pxg2d = {
+					__sveltekit_1y1p9j0 = {
 						base: new URL("../..", location).pathname.slice(0, -1),
-						version: "1793546077218"
+						version: "1793546150622"
 					};
 
 					const element = document.currentScript.parentElement;
 
 					import("../../_app/immutable/entry/start.D1HzdfF7.js").then(async (kit) => {
-						kit.init(__sveltekit_7pxg2d);
-						const app = await import("../../_app/immutable/entry/app.Dvk5GVQ2.js");
+						kit.init(__sveltekit_1y1p9j0);
+						const app = await import("../../_app/immutable/entry/app.BJvDcaJe.js");
 						kit.start(app, element, {
 							node_ids: [0, 4],
 							data: [null,null],

diff --git a/rendered/kb/triage/dedupe.html b/rendered/kb/triage/dedupe.html
@@ -9,7 +9,7 @@
 		<link href="../../_app/immutable/chunks/CptVIHXj.js" rel="modulepreload">
 		<link href="../../_app/immutable/chunks/CHfFqfNT.js" rel="modulepreload">
 		<link href="../../_app/immutable/chunks/DQG8lHS1.js" rel="modulepreload">
-		<link href="../../_app/immutable/entry/app.Dvk5GVQ2.js" rel="modulepreload">
+		<link href="../../_app/immutable/entry/app.BJvDcaJe.js" rel="modulepreload">
 		<link href="../../_app/immutable/nodes/0.Izv2btRW.js" rel="modulepreload">
 		<link href="../../_app/immutable/chunks/DK3Fl9T5.js" rel="modulepreload">
 		<link href="../../_app/immutable/nodes/6.BZRQ87Zk.js" rel="modulepreload">
@@ -29,16 +29,16 @@ anything else.<!----></aside><!----> <h2>Try it</h2> <div class="try svelte-gq0h
 			
 			<script>
 				{
-					__sveltekit_7pxg2d = {
+					__sveltekit_1y1p9j0 = {
 						base: new URL("../..", location).pathname.slice(0, -1),
-						version: "1793546077218"
+						version: "1793546150622"
 					};
 
 					const element = document.currentScript.parentElement;
 
 					import("../../_app/immutable/entry/start.D1HzdfF7.js").then(async (kit) => {
-						kit.init(__sveltekit_7pxg2d);
-						const app = await import("../../_app/immutable/entry/app.Dvk5GVQ2.js");
+						kit.init(__sveltekit_1y1p9j0);
+						const app = await import("../../_app/immutable/entry/app.BJvDcaJe.js");
 						kit.start(app, element, {
 							node_ids: [0, 6],
 							data: [null,null],

diff --git a/rendered/_app/immutable/nodes/5.CDfSAvXp.js b/rendered/_app/immutable/nodes/5.CDfSAvXp.js
@@ -1,0 +1,1 @@
+export{n as component}from"../chunks/BiRMwpH6.js";

diff --git a/README.md b/README.md
@@ -38,7 +38,7 @@ Exported 2026-10-04 from the `support` repo, `apps/kb/` → `src/`.
 ## Added to this export
 
 - `src/routes/kb/incidents/4471/problems/+page.svx`: the signed page about the problems in #4471.
-- `src/lib/kb/problems.ts`, `src/lib/kb/ProblemTable.svelte`: the logic and table behind it.
+- `src/lib/kb/problems.ts`, `src/lib/kb/ProblemTable.svelte`: the checks and table behind it.
 - `rendered/`: the built site. The page as the desk sees it is `rendered/kb/incidents/4471/problems.html`,
   with a picture in `rendered/problems.png`.
 - `package.json`, `vite.config.js`, `src/app.html`, `src/routes/+layout.js`: the build the export left out. Run `npm ci && npm run build`.
